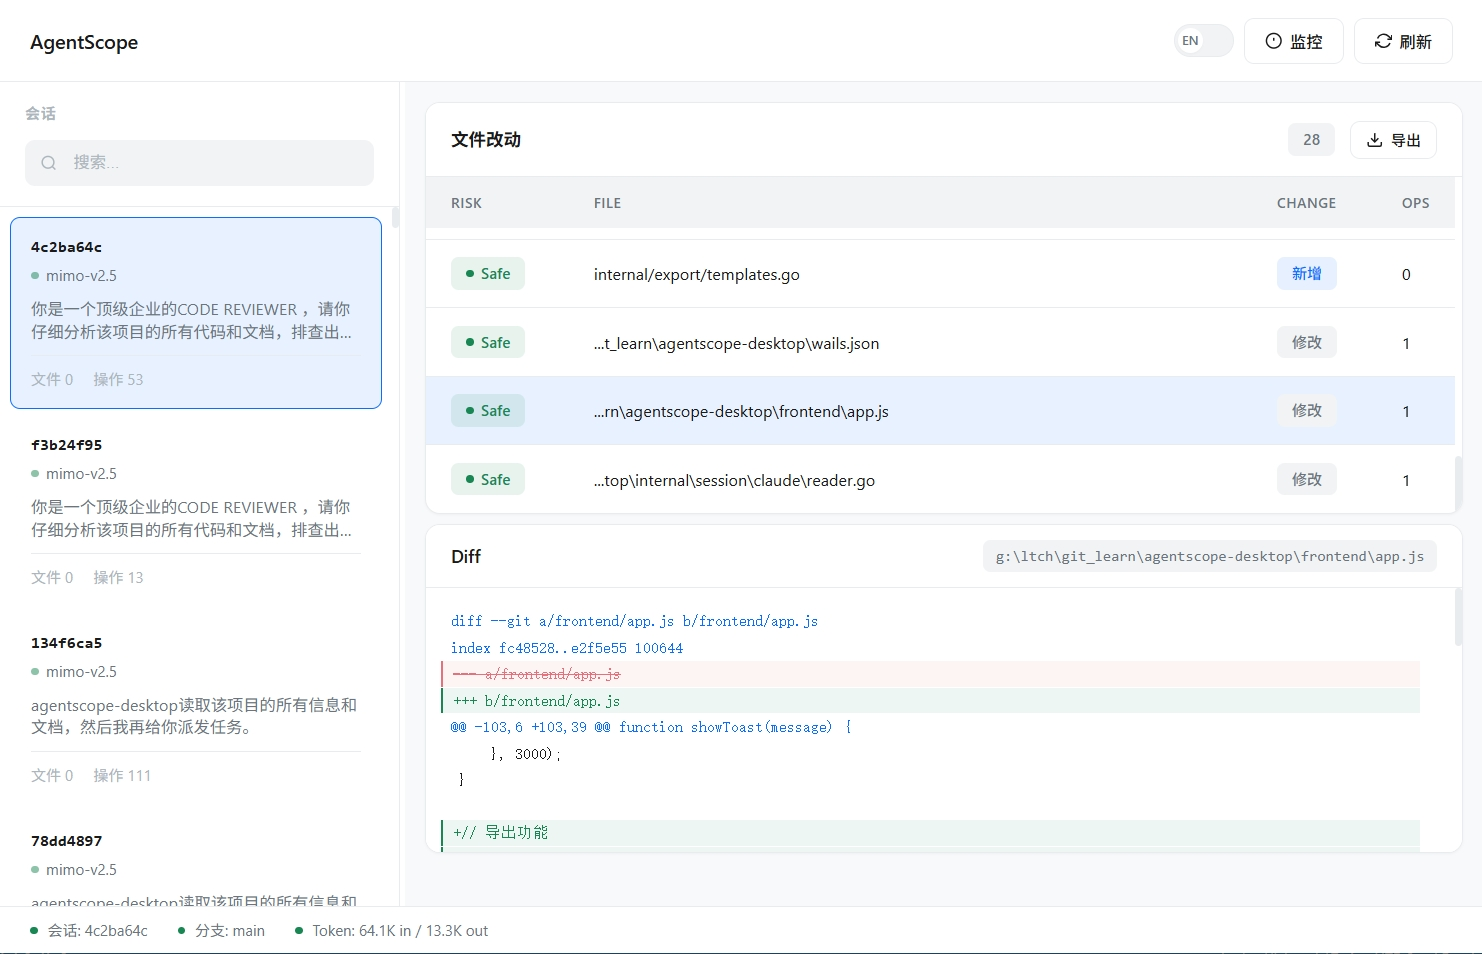
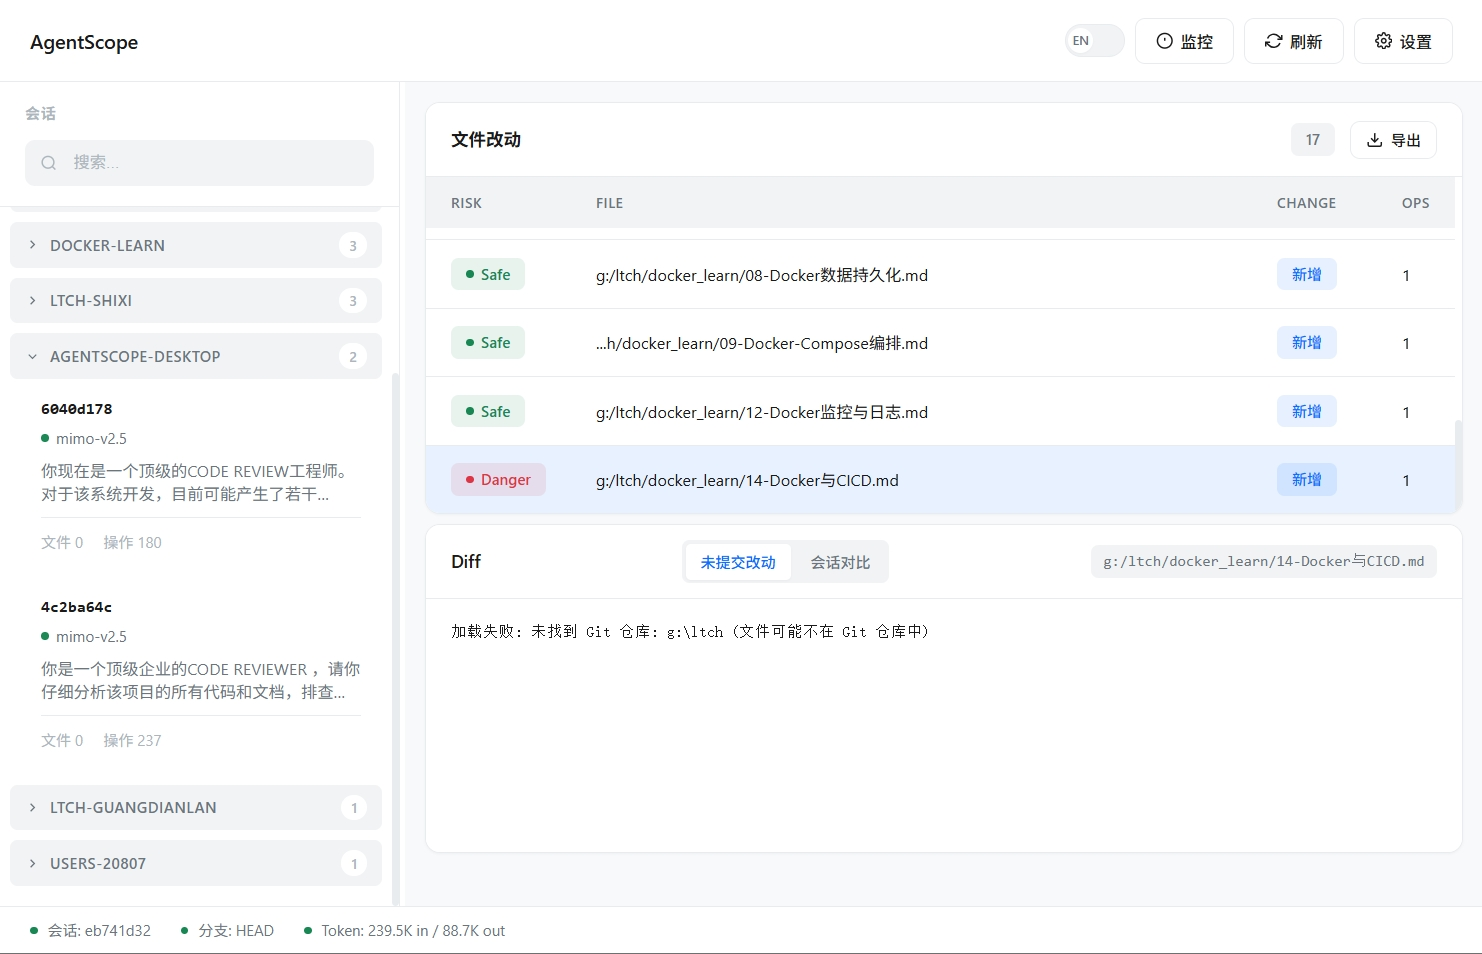
fix: 修复 GitHub Actions 跨平台编译失败
- 使用构建标签分离 Windows 和非 Windows 平台的实现
- Windows: 使用 SysProcAttr.HideWindow 隐藏窗口
- 其他平台: 直接执行命令

diff --git a/internal/diff/exec_windows.go b/internal/diff/exec_windows.go
@@ -1,0 +1,15 @@
+//go:build windows
+
+package diff
+
+import (
+	"os/exec"
+	"syscall"
+)
+
+// 创建隐藏窗口的exec.Command（Windows版本）
+func newGitCommand(args ...string) *exec.Cmd {
+	cmd := exec.Command("git", args...)
+	cmd.SysProcAttr = &syscall.SysProcAttr{HideWindow: true}
+	return cmd
+}

diff --git a/internal/diff/exec_other.go b/internal/diff/exec_other.go
@@ -1,0 +1,12 @@
+//go:build !windows
+
+package diff
+
+import (
+	"os/exec"
+)
+
+// 创建隐藏窗口的exec.Command（非Windows版本）
+func newGitCommand(args ...string) *exec.Cmd {
+	return exec.Command("git", args...)
+}

diff --git a/internal/diff/engine.go b/internal/diff/engine.go
@@ -3,21 +3,12 @@ package diff
 import (
 	"fmt"
 	"os"
-	"os/exec"
 	"path/filepath"
 	"strings"
-	"syscall"
 	"time"
 
 	"agentscope-desktop/internal/session"
 )
-
-// 创建隐藏窗口的exec.Command（仅Windows）
-func newGitCommand(args ...string) *exec.Cmd {
-	cmd := exec.Command("git", args...)
-	cmd.SysProcAttr = &syscall.SysProcAttr{HideWindow: true}
-	return cmd
-}
 
 // Engine Git Diff 引擎
 type Engine struct {